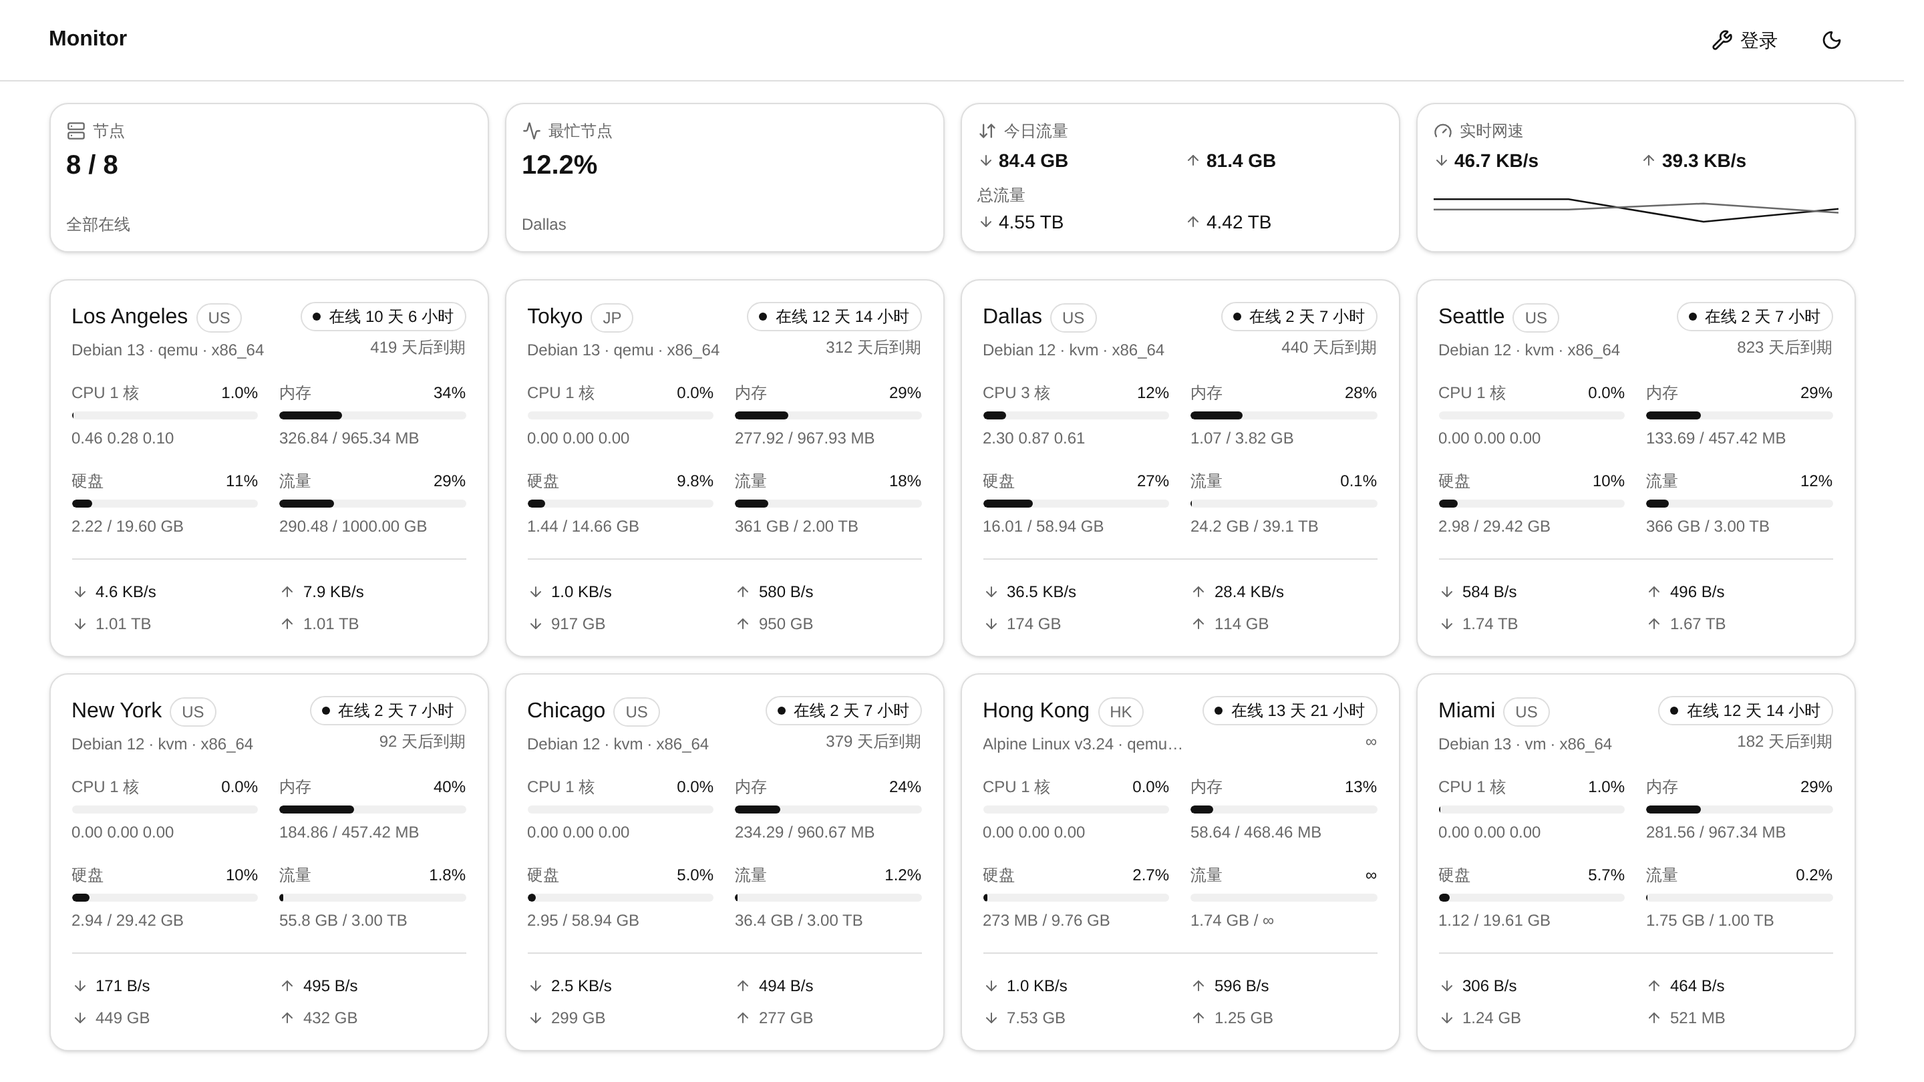
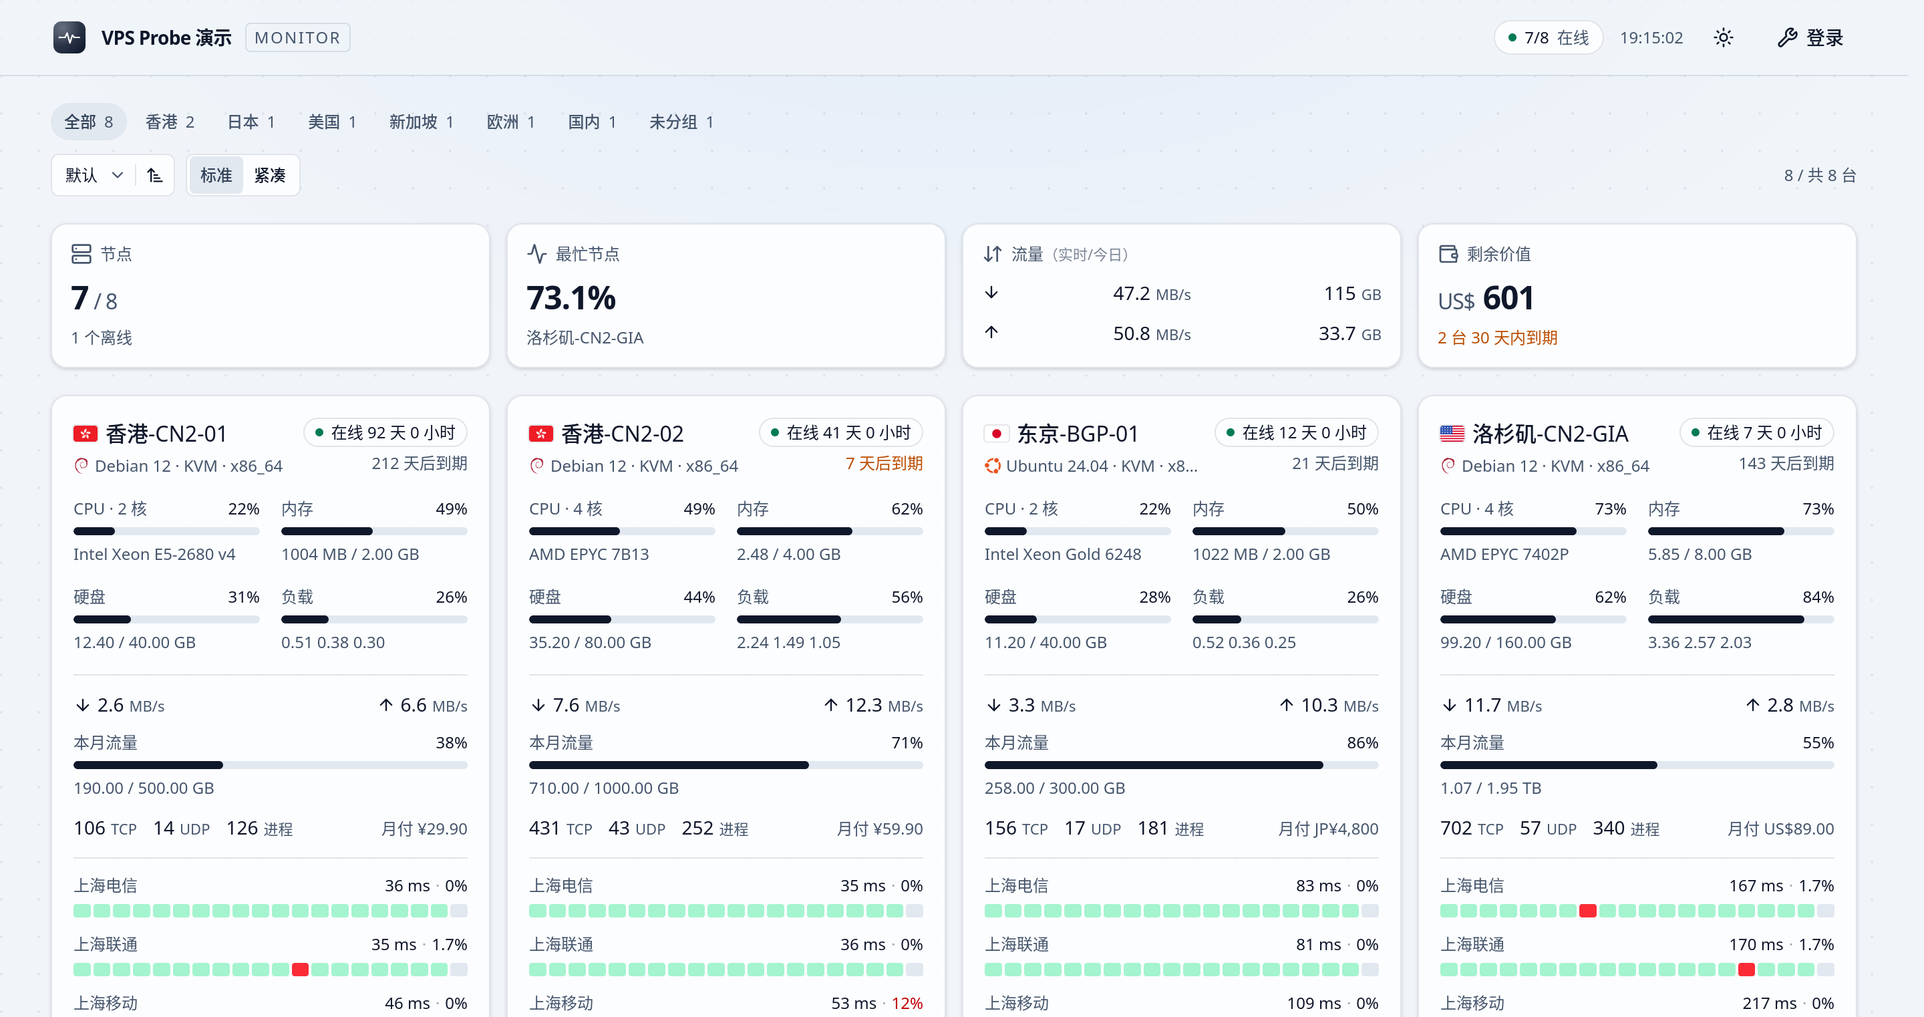
web/phase-6: 删掉主题配置链路，焦点/减动效/360px 全部过一遍真浏览器
这一轮的主角是截图。之前以为本机没有无头浏览器，其实有——`firefox --headless
--screenshot` 只是静默失败（exit 0，不产出文件）。改用 Marionette 驱动之后能等数据
到位、能在页面里跑测量、能按 2 倍像素比出图，于是 Phase 6 的"回归"第一次有了证据，
而不是"理论上应该对齐"。

删掉 theme.json 和 lib/config.ts。它读 /api/themes/default/config，而 hub 从来
没有这个路由（themes 在 monitor/src 里只出现在两处注释中），所以每次都在 404 上
拿默认值，show_summary 恒为 true。四张总览卡从"运营者开关"变成页面的一部分，顺带
省掉一次注定失败的请求和一段等待：列表不再等 config 才画。

三件按 Tab 才看得见的事：

- 卡片是 div 加 role="button"，没有默认焦点圈，Tab 走一遍屏幕上没有变化。补上和
  按钮同一套 focus-visible 环，判定用 :focus-visible，鼠标点不亮。
- prefers-reduced-motion 之前没人管。页面上所有动效都是 CSS（用量条宽度、卡片边框、
  骨架脉冲），图表动画早在系列上关了，所以一块 CSS 就够：0.01ms 而不是 0——零长度
  的过渡是取消而不是执行，transitionend 不会再发。实测 0.15s → 0.00001s。
- 分组 chips 那条 overflow-x-auto 在窄窗口的桌面浏览器上会画一条白色横条，像个渲染
  错误。横滚留着（十二个分组换成四行会把机队挤出手机屏），滚动条隐掉。

然后是在 360px 里量出来的两个真问题：

- 详情页整页横向滚 31px。原因不是谁写死了宽度：网格项不肯缩到内容以下，而 recharts
  把量到的宽度写成 <svg width>，这个数字又变成卡片的 min-content——卡片 363 比轨道
  316 宽 47。四张图卡加 min-w-0，让轨道赢，容器重新量一次。
- 速率轴的顶层刻度"100 MB/s"比别的刻度长，recharts 认为放不下就折成两行：100 在上、
  MB/s 在下，上半截被绘图区顶边裁掉。轴加宽到 80。
- 顺带把数字和单位粘住（\u00a0）：手机上一格 124px，"↓ 15.4 GB · ↑ 4.53 GB"会在
  数字后断行，把 GB 单独甩到下一行。只粘"数字 + 后面的拉丁字母/百分号"，不动中文。

README 重写：加了预览图、延迟色块的口径（三分钟一格、与自己的常态比、30ms 下限、
丢包按绝对值、整窗丢包只能读 loss 不能自己平均）、图标与字体来源、两个 localStorage
键、减动效。删掉"遗留文件"节——theme.json 不在了，preview.png 现在是 dev:mock 的
真截图（2880×1522）。

验证：tsc -b / oxlint / npm test（7 个文件）/ build 全绿。CSS 32.69 kB（gzip 6.76，
+0.6 raw），首屏 JS 339.71 kB（gzip 111.52，−0.27，config.ts 走了），NodeDetail
分包 393.22 kB（113.41）。真机（无头 Firefox，亮暗两套）：360 列表 348=348、详情修前
[…]

diff --git a/monitor/web-site/src/components/NodeDetail.tsx b/monitor/web-site/src/components/NodeDetail.tsx
@@ -163,6 +163,12 @@ type MetricRow = Point & {
  *
  * `foot` is for what does not fit the heading, such as the connection legend,
  * which is also its readout.
+ *
+ * min-w-0 on the card is load-bearing: a grid item refuses to shrink below its
+ * content, recharts writes the measured width onto the <svg> as an attribute,
+ * and that number then becomes the card's floor. On a phone the chart held the
+ * card 47px wider than the column and the page scrolled sideways. `min-w-0` lets
+ * the track win, and the container measures again.
  */
 function Panel({ title, note, foot, className, children }: {
   title: string
@@ -172,7 +178,7 @@ function Panel({ title, note, foot, className, children }: {
   children: React.ReactNode
 }) {
   return (
-    <Card className={cn("gap-0 p-4", className)}>
+    <Card className={cn("min-w-0 gap-0 p-4", className)}>
       <div className="flex items-baseline justify-between gap-3">
         <h3 className="min-w-0 truncate text-xs font-medium text-muted-foreground" title={title}>{title}</h3>
         {note != null && <span className="tnum shrink-0 text-xs font-medium">{note}</span>}
@@ -462,7 +468,11 @@ export function Resources({ node, points, hours, live }: {
           <ComposedChart data={chart}>
             <CartesianGrid strokeDasharray="3 3" className="stroke-border" vertical={false} />
             <XAxis {...timeAxis(chart, hours)} />
-            <YAxis scale="log" {...axes.rate} tickFormatter={axisBytes} unit="/s" {...VALUE_AXIS} />
+            {/* Wider than the other axes: "100 MB/s" is the longest tick in the
+                page, and recharts wraps a label it thinks will not fit -- which
+                put "100" on one line and "MB/s" on the next, half of it clipped
+                by the plot's top edge. */}
+            <YAxis scale="log" {...axes.rate} tickFormatter={axisBytes} unit="/s" {...VALUE_AXIS} width={80} />
             <Tooltip
               {...TOOLTIP}
               // The hub's figures rather than `v`, which is lifted to the axis
@@ -500,6 +510,14 @@ export function Resources({ node, points, hours, live }: {
 }
 
 /**
+ * A figure and its unit are one token. Left to break freely, a cell on a phone
+ * ended a line at "↑ 4.53" and put "GB" alone on the next; a non-breaking space
+ * between a number and the letters that follow it keeps the pair together and
+ * moves the break to the separator, where it belongs.
+ */
+const glued = (text: string) => text.replace(/(\d) (?=[A-Za-z%])/g, "$1\u00a0")
+
+/**
  * One cell of the spec sheet. The label is a step down and muted, the figure is
  * the thing read, and a value too long for a phone's 124px of cell wraps to a
  * second line: `¥59.90 / 月付 · 2026-09-28 到期` is one fact, and truncating it
@@ -511,7 +529,9 @@ function Fact({ label, value }: { label: string; value?: string | number | null 
   return (
     <div className="min-w-0 bg-card px-3 py-2.5">
       <dt className="text-2xs text-muted-foreground">{label}</dt>
-      <dd className="mt-0.5 line-clamp-2 text-sm leading-snug font-medium" title={String(value)}>{value}</dd>
+      <dd className="mt-0.5 line-clamp-2 text-sm leading-snug font-medium" title={String(value)}>
+        {typeof value === "string" ? glued(value) : value}
+      </dd>
     </div>
   )
 }
@@ -700,7 +720,7 @@ export function NodeDetail({ node, historyDays, onBack }: {
         全部节点
       </Button>
 
-      <Card className="gap-0 p-4 sm:p-5">
+      <Card className="min-w-0 gap-0 p-4 sm:p-5">
         <div className="flex flex-wrap items-center gap-x-2.5 gap-y-2">
           <Country node={node} />
           <h2 className="min-w-0 truncate text-xl font-semibold tracking-tight" title={node.name}>{node.name}</h2>
@@ -748,20 +768,23 @@ export function NodeDetail({ node, historyDays, onBack }: {
       </div>
 
       {!data ? (
-        <Card className="gap-0 p-4">
+        <Card className="min-w-0 gap-0 p-4">
           <Skeleton className="h-4 w-24" />
           <Skeleton className="mt-3 h-40 w-full" />
         </Card>
       ) : failed ? (
         <p className="py-8 text-center text-sm text-destructive" role="alert">
           读取历史数据失败：{failed}
-          <button className="ml-2 underline" onClick={() => setAttempt((n) => n + 1)}>重试</button>
+          <button
+            className="ml-2 rounded-sm underline underline-offset-2 outline-none focus-visible:ring-[3px] focus-visible:ring-ring/50"
+            onClick={() => setAttempt((n) => n + 1)}
+          >重试</button>
         </p>
       ) : tab === "latency" ? (
         pingSeries.length === 0 ? (
           <p className="py-8 text-center text-sm text-muted-foreground">这段时间没有延迟数据</p>
         ) : (
-          <Card className="gap-0 p-4">
+          <Card className="min-w-0 gap-0 p-4">
             {/* An explicit pixel height on the column, so the chart can be
                 `flex-1` within it while the legend takes what it needs: four
                 probes are one row of chips on a desktop and two on a phone, so

diff --git a/monitor/web-site/src/App.tsx b/monitor/web-site/src/App.tsx
@@ -8,7 +8,6 @@ import { TopBar } from "@/components/TopBar"
 import { Button } from "@/components/ui/button"
 import { Skeleton } from "@/components/ui/skeleton"
 import { api, groupsOf, useNodes, type Node } from "@/lib/api"
-import { loadConfig } from "@/lib/config"
 import { readDensity, readOrder, writeDensity, writeOrder } from "@/lib/prefs"
 import { arrange, type Density, type Order } from "@/lib/sort"
 import { useTheme } from "@/lib/theme"
@@ -55,15 +54,14 @@ export default function App() {
   const { mode, cycle: cycleTheme } = useTheme()
   const [me, setMe] = useState<Me | null>(null)
   const [meError, setMeError] = useState("")
-  const [config, setConfig] = useState<Record<string, unknown> | null>(null)
   const { nodes, error, closed } = useNodes()
   const [open, go] = useNodeRoute()
   // The list's group tab, held here so it survives a visit to a node's page.
   const [group, setGroup] = useState<string | null>(null)
   // The order and the density are the visitor's, kept across visits: read from
   // `localStorage` on the first render, written when they change. Not in the URL
-  // -- nobody shares a link to "my nodes by CPU" -- and not in `theme.json`,
-  // which is the site operator's file rather than the reader's.
+  // -- nobody shares a link to "my nodes by CPU" -- and not in a settings file
+  // either: those would be the site operator's, and these are the reader's.
   const [order, setOrder] = useState<Order>(readOrder)
   const [density, setDensity] = useState<Density>(readDensity)
   const chooseOrder = useCallback((next: Order) => {
@@ -83,9 +81,6 @@ export default function App() {
 
   useEffect(() => {
     loadMe()
-    // Requested alongside /me, not after it. It never rejects: any failure
-    // yields the defaults.
-    void loadConfig().then(setConfig)
     // Warmed here rather than left to Suspense, which requests the chunk only
     // once a render reaches the detail view, itself waiting on /me. Without this
     // the split trades its first paint for a full-page skeleton over the first
@@ -159,10 +154,13 @@ export default function App() {
             </Suspense>
           ) : (
             <p className="py-16 text-center text-sm text-muted-foreground">
-              节点不存在或未公开。<button className="underline" onClick={() => go(null)}>返回列表</button>
+              节点不存在或未公开。<button
+                className="rounded-sm underline underline-offset-2 outline-none focus-visible:ring-[3px] focus-visible:ring-ring/50"
+                onClick={() => go(null)}
+              >返回列表</button>
             </p>
           )
-        ) : !nodes || !config ? (
+        ) : !nodes ? (
           <div className={cn("grid sm:grid-cols-2 lg:grid-cols-3 xl:grid-cols-4", density === "compact" ? "gap-2" : "gap-3")}>
             {[0, 1, 2].map((i) => (
               <Skeleton key={i} className={density === "compact" ? "h-12" : "h-72"} />
@@ -172,7 +170,6 @@ export default function App() {
           <NodeList
             nodes={sorted}
             group={group}
-            summary={config.show_summary === true}
             order={order}
             density={density}
             onGroup={setGroup}
@@ -187,17 +184,17 @@ export default function App() {
 }
 
 // Group tabs appear only once the operator has grouped something, so a hub
-// without groups keeps the page it always had. The summary follows the tab.
+// without groups keeps the page it always had. The summary follows the tab, and
+// is no longer a switch: it was the operator's `show_summary` from the theme
+// config API, which the hub does not have, so it always read its own default.
 //
 // Exported for `ui.test.ts`: the combination that has to be right -- a group, an
 // order and a density at once -- is this function's, and asserting it through a
 // string of markup is the closest this machine gets to opening a browser.
-export function NodeList({ nodes, group, summary, order, density, onGroup, onOrder, onDensity, onOpen }: {
+export function NodeList({ nodes, group, order, density, onGroup, onOrder, onDensity, onOpen }: {
   nodes: Node[]
   /** null is every node, "" the ungrouped. */
   group: string | null
-  /** The operator's `show_summary` setting. */
-  summary: boolean
   order: Order
   density: Density
   onGroup: (group: string | null) => void
@@ -230,7 +227,7 @@ export function NodeList({ nodes, group, summary, order, density, onGroup, onOrd
         density={density}
         onDensity={onDensity}
       />
-      {summary && <Overview nodes={shown} />}
+      <Overview nodes={shown} />
       {nodes.length === 0 ? (
         <p className="py-16 text-center text-sm text-muted-foreground">还没有节点</p>
       ) : (

diff --git a/monitor/web-site/src/ui.test.ts b/monitor/web-site/src/ui.test.ts
@@ -74,6 +74,10 @@ try {
   // Throughput follows the same rule, so the row above the counts is not a
   // different kind of thing: the figure at full weight, the unit a step down.
   assert.match(full, /text-sm font-medium">[\d.]+<\/span><span class="text-2xs[^"]*">(?:B|KB|MB|GB)\/s</)
+  // A card is a div carrying role="button", so the focus ring the browser would
+  // draw for a real button is ours to draw: without it, tabbing through the list
+  // moves nothing on screen.
+  assert.match(full, /class="[^"]*focus-visible:ring-\[3px\][^"]*"[^>]*role="button"/)
   console.log("a card carries its figures, its sockets and its price")
 
   // An offline node has no live line, and the hour it last reported would read
@@ -171,21 +175,29 @@ try {
   const { NodeList } = await server.ssrLoadModule("/src/App.tsx")
   const list = (props: Record<string, unknown> = {}) =>
     renderToString(createElement(NodeList, {
-      nodes: fleet, group: null, summary: false,
+      nodes: fleet, group: null,
       order: { key: "operator", dir: "asc" }, density: "standard",
       onGroup() {}, onOrder() {}, onDensity() {}, onOpen() {}, ...props,
     }))
 
-  const hongKong = list({ group: "香港", order: { key: "cpu", dir: "desc" } })
+  // Read from the grid down: the summary above the list names the busiest node,
+  // so `indexOf` over the whole page would find that name before the list even
+  // starts and call the order right for the wrong reason.
+  const cards = (html: string) => html.slice(html.indexOf("sm:grid-cols-2 lg:grid-cols-3"))
+  const hongKong = cards(list({ group: "香港", order: { key: "cpu", dir: "desc" } }))
   const first = hongKong.indexOf("香港-CN2-02") // 47% on four cores
   const second = hongKong.indexOf("香港-CN2-01") // 18% on two
   assert.ok(first >= 0 && second > first, "the busier of the two Hong Kong nodes leads")
   assert.ok(!hongKong.includes("东京-BGP-01"), "the tab keeps the rest of the fleet out")
-  const reversed = list({ group: "香港", order: { key: "cpu", dir: "asc" } })
+  const reversed = cards(list({ group: "香港", order: { key: "cpu", dir: "asc" } }))
   assert.ok(reversed.indexOf("香港-CN2-01") < reversed.indexOf("香港-CN2-02"), "the arrow reverses it")
   // Ordering by name reaches across the whole fleet when no tab is chosen.
-  const byName = list({ order: { key: "name", dir: "asc" } })
+  const whole = list({ order: { key: "name", dir: "asc" } })
+  const byName = cards(whole)
   assert.ok(byName.indexOf("东京-BGP-01") < byName.indexOf("香港-CN2-01"))
+  // The summary is part of the page, not a setting: the theme's config API went
+  // with the theme market, and this read its default forever anyway.
+  assert.ok(whole.includes("最忙节点"), "the four tiles are always drawn")
   console.log("a group narrows the list and the order arranges what is left")
 
   // The compact list: the same nodes, a tenth of the card. It keeps what a scan
@@ -218,6 +230,12 @@ try {
     }))
 
   const page = detail()
+  // A figure and its unit stay together on a phone: the cell broke "↑ 4.53 GB"
+  // after the number and left the unit alone on the next line.
+  assert.match(page, /\d\u00a0(?:B|KB|MB|GB|TB)/, "the unit is glued to its figure")
+  // A figure and its unit stay together on a phone: the cell broke "↑ 4.53 GB"
+  // after the number and left the unit alone on the next line.
+  assert.match(page, /\d\u00a0(?:B|KB|MB|GB|TB)/, "the unit is glued to its figure")
   for (const want of ["香港-CN2-02", "全部节点", "系统", "CPU", "内存 / 硬盘", "架构", "今日流量", "续费"]) {
     assert.ok(page.includes(want), `missing ${want}`)
   }

diff --git a/monitor/web-site/src/components/Toolbar.tsx b/monitor/web-site/src/components/Toolbar.tsx
@@ -56,9 +56,17 @@ export function Toolbar({ nodes, shown, group, onGroup, order, onOrder, density,
     <div className="space-y-2">
       {/* Group names are free text, so they carry a prefix no key of the 全部 tab
           can share. The row scrolls rather than wraps: twelve groups wrapped into
-          four lines push the fleet off a phone's screen. */}
+          four lines push the fleet off a phone's screen. The scrollbar is hidden
+          because the row is a strip of tabs, not a text pane -- on a desktop
+          browser narrow enough to scroll it, the bar draws a white band across
+          the page under the chips. A half-visible chip still says there is more,
+          and Tab scrolls the strip. */}
       {groups.length > 0 && (
-        <div role="group" aria-label="分组" className="-mx-1 flex gap-1 overflow-x-auto px-1 pb-0.5">
+        <div
+          role="group"
+          aria-label="分组"
+          className="-mx-1 flex gap-1 overflow-x-auto px-1 pb-0.5 [scrollbar-width:none] [&::-webkit-scrollbar]:hidden"
+        >
           {tabs.map(([value, label, count]) => (
             <Chip
               key={value === null ? "*" : `=${value}`}

diff --git a/monitor/web-site/src/index.css b/monitor/web-site/src/index.css
@@ -150,3 +150,21 @@
 /* Tabular figures keep live numbers from shifting as they update. Shorter than
    the utility, and every figure on this page wants it. */
 .tnum { font-variant-numeric: tabular-nums; }
+
+/* Everything that moves on this page moves in CSS: the meter's width, a card's
+   border under the pointer, the skeleton's pulse. (The charts are the one
+   exception, and they turn animation off at the series, in the markup.)
+   A block rather than `motion-reduce:` on each of those six classes -- it is the
+   same three properties every time, and a list of utilities is what gets
+   forgotten when a seventh transition is added. Near zero rather than zero:
+   a transition of no length is cancelled rather than run, and `transitionend`
+   never fires for it -- nobody sees 0.01ms, and anything listening still hears. */
+@media (prefers-reduced-motion: reduce) {
+  *,
+  *::before,
+  *::after {
+    animation-duration: 0.01ms !important;
+    animation-iteration-count: 1 !important;
+    transition-duration: 0.01ms !important;
+  }
+}

diff --git a/monitor/web-site/src/components/NodeCard.tsx b/monitor/web-site/src/components/NodeCard.tsx
@@ -213,7 +213,11 @@ export function NodeCard({ node, onOpen }: { node: Node; onOpen: () => void }) {
       // OS line below does not wrap, so on a phone the card would grow past its
       // column and scroll the page sideways. The truncate inside only takes effect
       // once the card is allowed to be narrower.
-      className="min-w-0 cursor-pointer gap-0 p-4 transition-colors hover:border-ring"
+      //
+      // A card is a button here, so it draws the button's focus: the ring and the
+      // border the pointer gets on hover, since a list walked with Tab otherwise
+      // moves nothing on screen.
+      className="min-w-0 cursor-pointer gap-0 p-4 outline-none transition-colors hover:border-ring focus-visible:border-ring focus-visible:ring-[3px] focus-visible:ring-ring/50"
       role="button"
       tabIndex={0}
       onKeyDown={(e) => (e.key === "Enter" || e.key === " ") && (e.preventDefault(), onOpen())}

diff --git a/monitor/web-site/src/components/NodeRow.tsx b/monitor/web-site/src/components/NodeRow.tsx
@@ -49,9 +49,10 @@ export function NodeRow({ node, onOpen }: { node: Node; onOpen: () => void }) {
       onKeyDown={(e) => (e.key === "Enter" || e.key === " ") && (e.preventDefault(), onOpen())}
       title={`${node.name} · ${status}`}
       // Muted when it stops reporting: the figures are the last ones it sent,
-      // and the whole row says so rather than the dot alone.
+      // and the whole row says so rather than the dot alone. Focus is drawn as
+      // the same border the pointer gets on hover, plus the button's ring.
       className={cn(
-        "min-w-0 cursor-pointer gap-0 px-3 py-2.5 transition-colors hover:border-ring",
+        "min-w-0 cursor-pointer gap-0 px-3 py-2.5 outline-none transition-colors hover:border-ring focus-visible:border-ring focus-visible:ring-[3px] focus-visible:ring-ring/50",
         !node.online && "text-muted-foreground",
       )}
     >

diff --git a/monitor/web-site/src/lib/prefs.ts b/monitor/web-site/src/lib/prefs.ts
@@ -9,8 +9,9 @@
  *
  * The list's two preferences live here rather than in the components that show
  * them: one place to read the keys, and the parsers next to the defaults they
- * fall back to. Neither is in `theme.json` -- that file is the hub's, it is
- * going away in Phase 6, and a view setting is the visitor's, not the site's.
+ * fall back to. Both are the reader's settings, so they stay in the browser: the
+ * site operator has nothing to configure here, and the hub has no theme settings
+ * to store them in.
  */
 import { formatOrder, parseOrder, type Density, type Order } from "./sort.ts"
 
